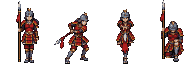
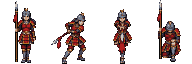
Dex: centre every dot sprite on its body, widen the left column for 64px-wide sprites

diff --git a/index.html b/index.html
@@ -32,6 +32,8 @@
   #intro button { margin-top: 8px; font: inherit; padding: 8px 18px; border-radius: 999px; border: 0; background: var(--accent); color: #fff; }
   .card { display: flex; gap: 14px; background: var(--card); border: 1px solid var(--line); border-radius: 14px; padding: 14px; margin: 0 0 14px; box-shadow: 0 1px 4px var(--shadow); }
   .left { flex: 0 0 96px; width: 96px; display: flex; flex-direction: column; gap: 8px; }
+  .left.wide { flex-basis: 128px; width: 128px; }
+  .left.wide .pic { width: 128px; height: 160px; }
   .pic { flex: 0 0 auto; width: 96px; height: 120px; border-radius: 10px; overflow: hidden; background: var(--bar); display: flex; align-items: center; justify-content: center; }
   .pic img { width: 100%; height: 100%; object-fit: cover; image-rendering: auto; }
   .pic.noimg::after { content: "？"; font-size: 2.4rem; color: var(--sub); opacity: .5; }
@@ -87,6 +89,6 @@
 </main>
 <script src="ui.js?v=3"></script>
 <script src="dexlib.js?v=3"></script>
-<script src="app.js?v=4"></script>
+<script src="app.js?v=5"></script>
 </body>
 </html>

diff --git a/app.js b/app.js
@@ -58,7 +58,8 @@
       var fw = (im.height === 48 || im.height === 64) ? 48 : im.width;     // 1コマの幅
       if (im.height === 48 && im.width % 48 !== 0 && im.width % 64 === 0) fw = 64;   // 幅64のコマ(くえびこ・みくまり)
       var frames = Math.max(1, Math.round(im.width / fw));
-      var s = fw <= 64 ? 2 : 3;                                          // 整数倍(96px幅)
+      var s = fw <= 64 ? 2 : 3;
+      if (fw * s > 96 && box.parentNode) box.parentNode.classList.add('wide');   // 幅64のコマは、左の欄を広げて収める                                          // 整数倍(96px幅)
       dot.style.width = fw * s + 'px';
       dot.style.height = im.height * s + 'px';
       dot.style.backgroundImage = 'url(' + im.src + ')';
